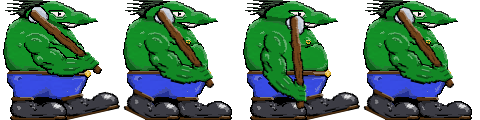
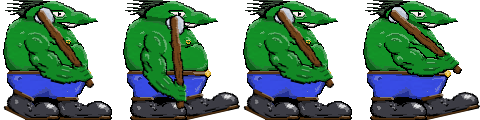
Animations complete

diff --git a/src/media/js/objects/player.js b/src/media/js/objects/player.js
@@ -3,16 +3,17 @@ define(function(require) {
 	var inherits = require("../utils/inherits");
 	var constants = require("../utils/constants");
 	var Interval = require("../utils/interval");
+	var _ = require("underscore");
 
 	// jump related
 	var jumpInterval = new Interval(3000);
 	var canPowerJump = true;
-	var Jumping = {
+	var PlayerState = {
 		"None": 0,
 		"Jump": 1,
-		"Power": 2
+		"Power": 2,
+		"Smash": 3
 	};
-	var jumpState = Jumping.None;
 
 	var Player = function(game, x, y, frame) {
 		// phaser related stuff
@@ -27,59 +28,80 @@ define(function(require) {
 		this.body.gravity.y = constants.GRAVITY_PLAYER;
 		this.body.checkCollision.left = false;
 		this.body.checkCollision.right = false;
-		this.anchor.setTo(0.5, 1);
+		this.anchor.setTo(0, 1);
 
-		this.animations.add("idle");
-		this.animations.play("idle", 3, true);
+		this.animations.add("run");
+		this.animations.play("run", 3, true);
+
+		this.actionState = PlayerState.None;
 	};
 
 	inherits(Player, Phaser.Sprite);
 
 	// jump the player and change the animation
 	Player.prototype.jump = function() {
-		if(jumpState != Jumping.None) {
+		if(this.actionState != PlayerState.None) {
 			return;
 		}
 
 		if(canPowerJump) {
-			jumpState = Jumping.Power;
+			this.actionState = PlayerState.Power;
 			this.body.velocity.y = -constants.JUMP_FULL;
 		}
 		else {
-			jumpState = Jumping.Jump;
+			this.actionState = PlayerState.Jump;
 			this.body.velocity.y = -constants.JUMP_SMALL;
 		}
 
-		// TODO revert to jumping animation
+		// change to jumping animation
+		this.loadTexture("troll-jump");
 	};
 
+	// smash whatever is infront of the player
+	Player.prototype.smash = function() {
+		if(this.actionState != PlayerState.None) {
+			return;
+		}
+
+		this.actionState = PlayerState.Smash;
+
+		this.loadTexture("troll-smash");
+		this.animations.add("smash");
+
+		var anim = this.animations.play("smash", 10, false);
+
+		anim.onComplete.add(_.bind(function() {
+			this.loadTexture("troll-run");
+			this.animations.play("run", 3, true);
+
+			this.actionState = PlayerState.None;
+		}, this));
+	};
 
 	Player.prototype.update = function() {
 		// were jumping, have now landed
-		if(jumpState != Jumping.None && this.body.velocity.y == 0) {
-			if(jumpState == Jumping.Power) {
+		if(this.actionState != PlayerState.None && this.actionState != PlayerState.Smash && this.body.velocity.y == 0) {
+			if(this.actionState == PlayerState.Power) {
 				this.onpowerlanding();
 			}
 
-			jumpState = Jumping.None;
+			this.actionState = PlayerState.None;
 			canPowerJump = false;
 			jumpInterval.reset();
 
-			// TODO revert to walking animation
+			// revert to walking animation
+			this.loadTexture("troll-run");
+			this.animations.play("run", 3, true);
 		}
 
 		var elapsed = this.game.time.elapsed;
 
-		if(jumpState == Jumping.None && jumpInterval.next(elapsed)) {
+		if(this.actionState == PlayerState.None && jumpInterval.next(elapsed)) {
 			canPowerJump = true;
 		}
 	};
 
 	Player.prototype.onpowerlanding = function() {};
-
-	Player.prototype.isDead = function() {
-		return false;
-	};
 
 	return Player;
 });

diff --git a/src/media/js/screens/game-play.js b/src/media/js/screens/game-play.js
@@ -29,7 +29,7 @@ define(function(require) {
 	var PAD = 20;
 
 	// keyboard
-	var jump, hit, block;
+	var jump, smash;
 
 	var GamePlay = function() {
 		Phaser.State.call(this);
@@ -90,9 +90,8 @@ define(function(require) {
 		stage = new Stages.Village();
 
 		// set up player controls
-		jump = this.game.input.keyboard.addKey(Phaser.Keyboard.SPACEBAR);
-
-		// TODO the player should walk onto the screen while the ground is motionless
+		jump  = this.game.input.keyboard.addKey(Phaser.Keyboard.SPACEBAR);
+		smash = this.game.input.keyboard.addKey(Phaser.Keyboard.X);
 	};
 
 	GamePlay.prototype.addScore = function(newScore) {
@@ -123,9 +122,13 @@ define(function(require) {
 		this.game.physics.arcade.collide(player, enemies, function(player, enemy) {
 			splats.addSplat(enemy.x);
 
-			// TODO enemy needs to squish before adding the splat and before removing it completely
-			enemies.remove(enemy);
-			enemy.destroy();
+			// squish enemy before adding the splat and before removing the enemy completely
+			var tween = this.game.add.tween(enemy).to({ height: 0 }, 180, Phaser.Easing.Bounce.Out, true);
+
+			tween.onComplete.addOnce(function() {
+				enemies.remove(enemy);
+				enemy.destroy();
+			});
 
 			this.addScore(constants.SCORE_KILL);
 		}, null, this);
@@ -144,7 +147,7 @@ define(function(require) {
 		if(stage.addChasm()) {
 			ground.createChasm();
 
-			// TODO select a new stage
+			// TODO select a new stage and speed up
 			stage = new Stages.Village();
 		}
 
@@ -186,6 +189,11 @@ define(function(require) {
 		// handle jump
 		if(jump.isDown) {
 			player.jump();
+		}
+
+		// handle smash!
+		if(smash.isDown) {
+			player.smash();
 		}
 
 		// player has fallen down a chasm

diff --git a/src/media/js/screens/preload.js b/src/media/js/screens/preload.js
@@ -9,7 +9,8 @@ define(function(require) {
 
 		// load graphics
 		var keys = [
-			"troll", "villager", "sky", "overlay", "moon",
+			"troll-jump",
+			"sky", "overlay", "moon",
 			"hut1", "hut2", "hut3",
 			"ground1", "ground2", "ground3",
 			"splat1", "splat2", "splat3",
@@ -29,6 +30,7 @@ define(function(require) {
 
 		this.load.spritesheet("troll-idle", "media/img/troll-idle.png", 120, 120);
 		this.load.spritesheet("troll-run", "media/img/troll-run.png", 120, 120);
+		this.load.spritesheet("troll-smash", "media/img/troll-smash.png", 180, 120);
 
 
 		// load json data

diff --git a/src/media/js/screens/menus.js b/src/media/js/screens/menus.js
@@ -61,7 +61,7 @@ define(function(require) {
 	inherits(Start, Menu);
 
 	var GameOver = function() {
-		Menu.call(this, "Game Over!", ["Troll died <sniff>. Poor Troll.", "Troll sad now.", "But you did kill enough squishy humans to feed Troll for <x> days."]);
+		Menu.call(this, "Game Over!", ["Troll fell down a hole <sniff>. Poor Troll.", "Troll sad now.", "But you did kill enough squishy humans to feed Troll for <x> days."]);
 	};
 
 	inherits(GameOver, Menu);

diff --git a/src/media/js/objects/huts.js b/src/media/js/objects/huts.js
@@ -21,7 +21,7 @@ define(function(require) {
 		this.body.immovable = true;
 		this.body.friction.x = 0;
 
-		this.interval = new Interval(1000);
+		this.interval = new Interval(500);
 	};
 
 	inherits(Hut, Phaser.Sprite);

diff --git a/src/media/js/objects/troll.js b/src/media/js/objects/troll.js
@@ -10,7 +10,7 @@ define(function(require) {
 		// set physics and game specific stuff
 		game.add.existing(this);
 
-		this.anchor.setTo(0.5, 1);
+		this.anchor.setTo(0, 1);
 
 		// animate
 		this.animations.add("idle");

diff --git a/src/media/js/utils/constants.js b/src/media/js/utils/constants.js
@@ -13,7 +13,7 @@ define(function(require) {
 
 		// game constants
 		ENEMY_MAX: 20,
-		FEAR_RANGE: 400,
+		FEAR_RANGE: 460,
 		JUMP_SMALL: 275,
 		JUMP_FULL: 400,
 		GRAVITY_WORLD: 400,

diff --git a/TODO.md b/TODO.md
@@ -13,14 +13,15 @@ Troll jump:
 DONE Spawn villagers
 DONE Troll death if fall down chasm
 Troll smash!
+Fix background (and maybe HUD during power smash)
 
 Artwork:
 
 - Troll
 	- DONE Idle
 	- DONE Running
-	- Jumping
-	- Smashing
+	- DONE Jumping
+	- DONE Smashing
 - Villager
 	- Running with colour variations
 		- DONE White
